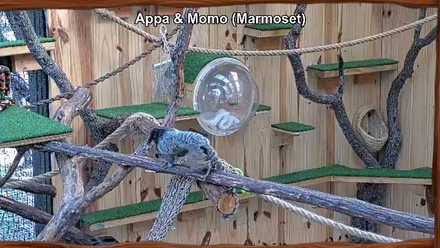
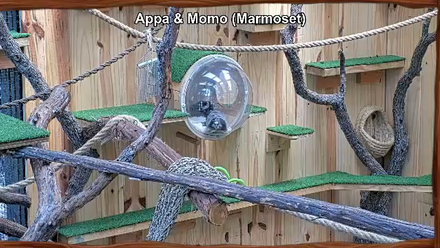
Update presets data

diff --git a/apps/website/src/data/presets/marmout.ts b/apps/website/src/data/presets/marmout.ts
@@ -88,8 +88,8 @@ const marmoutPresets: Record<string, Preset> = {
   domellb: {
     description: "domellb",
     image: domellb,
-    position: { pan: 126.35, tilt: -10.89, zoom: 332 },
-    // modified: 2026-06-08T13:56:17.053Z
+    position: { pan: 126.97, tilt: -10.69, zoom: 390 },
+    // modified: 2026-06-16T17:00:43.522Z
   },
   domellshelf: {
     description: "domellshelf",
